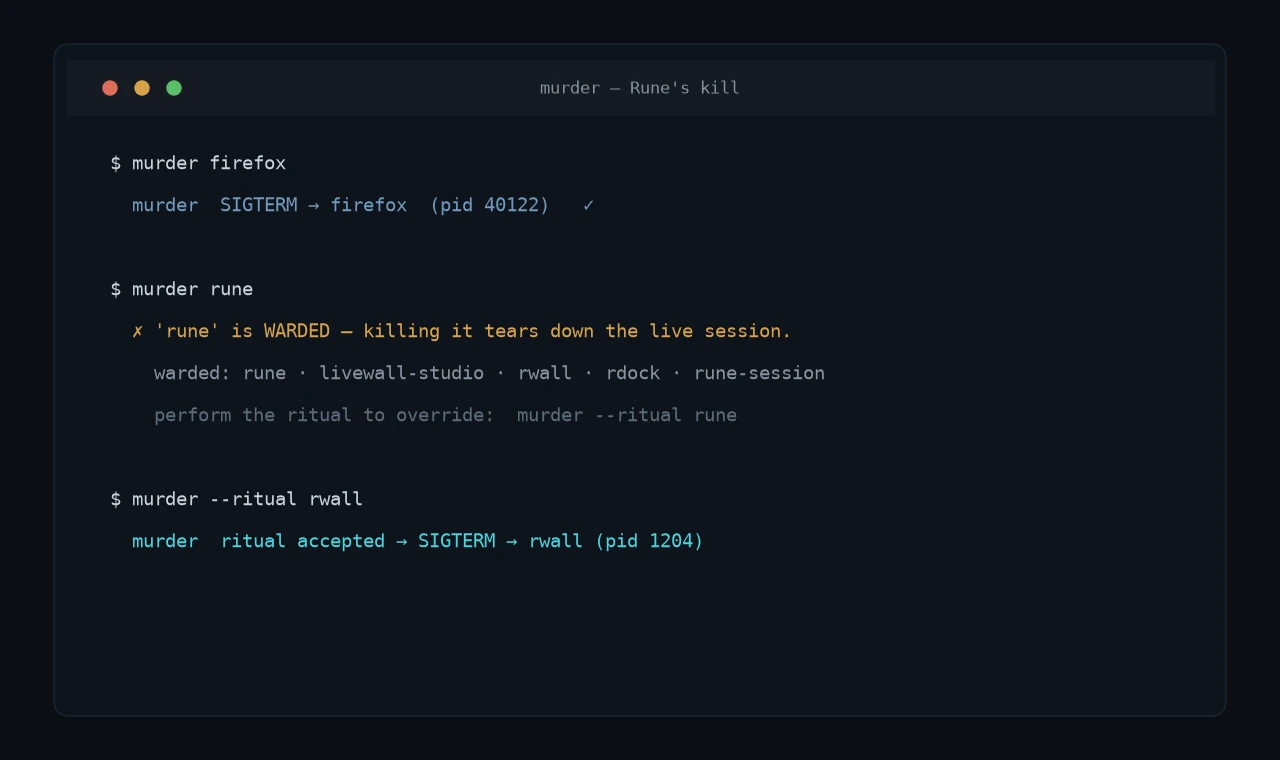
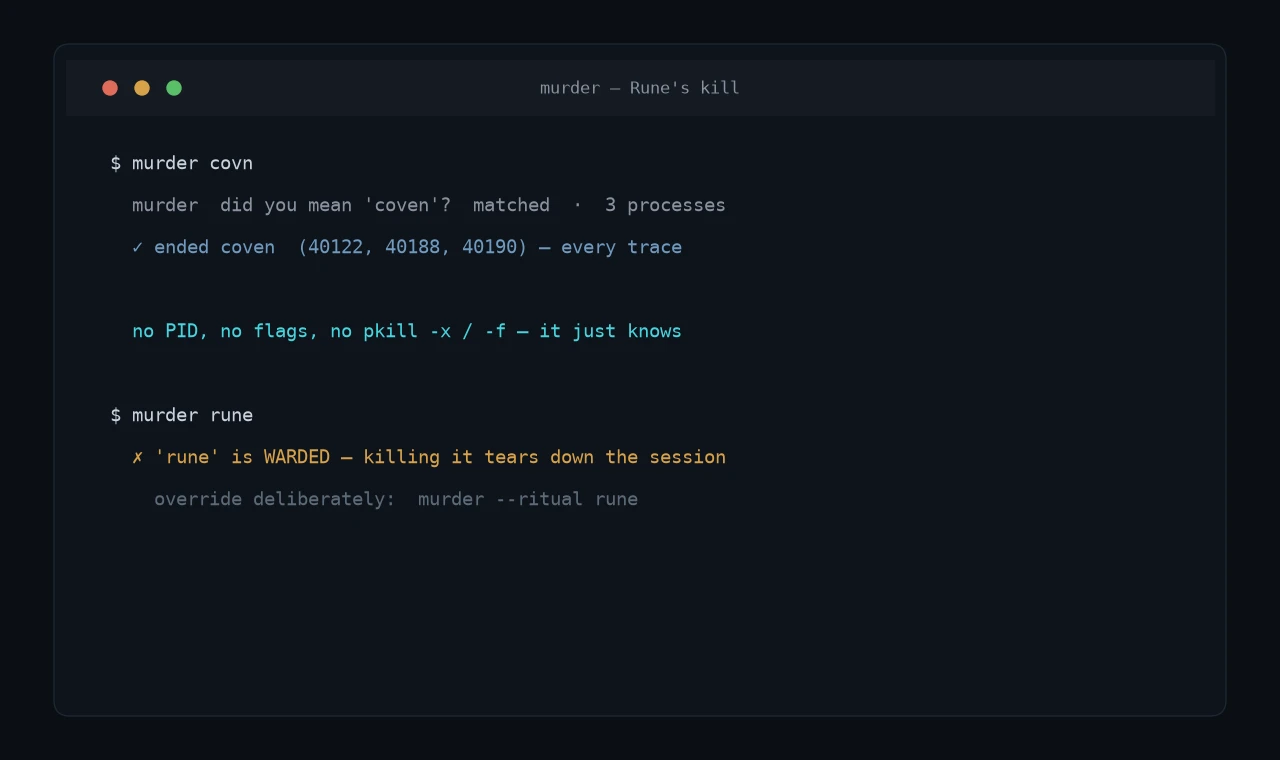
Headline → "I write the parts most people import"; recast murder around fuzzy matching
- New hero headline (leans on the from-scratch/rebuild ethos).
- murder copy + terminal card now lead with its real value: fuzzy name matching
  ("murder covn" → Coven), finds every trace, no PIDs/flags/pkill trivia. Warding
  is the safety net, not the headline feature.

diff --git a/script.js b/script.js
@@ -283,18 +283,18 @@ const projectsData = [
     {
         section: 'systems', code: 'OS-07',
         title: 'murder',
-        short: 'A safer kill that refuses to slay session-critical processes unless you perform the --ritual.',
+        short: 'Kill anything by fuzzy name — "murder covn" knows you mean Coven, finds every trace, and ends it. No PIDs, no flags, no pkill trivia.',
         image: 'images/murder/murder.webp',
         tags: ['Rust', 'CLI', 'Linux', 'RuneOS'],
-        description: 'murder is Rune\'s kill: it signals processes by PID or exact name (pkill -x style), but wards the handful of processes that would tear down the live desktop session — the compositor, the wallpaper engine, the dock — and refuses to touch them unless you pass --ritual. It exists because "pkill -x rune" is an instant sign-out and "pkill -f livewall-studio" is a black screen; murder makes the safe thing the default and the dangerous thing deliberate.',
+        description: 'murder is Rune\'s kill, built around one idea: you should not have to remember pkill -x versus pkill -f, hunt down a PID, or even spell the name right. You just say "murder covn" and it knows you meant Coven — it fuzzy-matches the process, finds every trace of it (all the matching processes, not just one), and ends them. No flags to memorize, no variants, no PID lookup. As a safety net it also wards the handful of processes that would tear down your live session — the compositor, the wallpaper engine, the dock — so a fat-fingered kill can\'t accidentally sign you out; you override with --ritual when you actually mean it.',
         features: [
-            'Kill by PID or exact comm name (pkill -x style)',
-            'Wards session-critical processes (compositor, wallpaper, dock)',
-            'Refuses to kill warded processes without --ritual',
-            'Respects an explicitly named signal — never escalates',
-            'Small, fast Rust binary'
+            'Fuzzy name matching — "murder covn" resolves to Coven, typo and all',
+            'Finds and ends every trace of a process, not a single PID',
+            'No PIDs, no flags, no remembering pkill -x / -f variants',
+            'Wards session-critical processes (compositor, wallpaper, dock) unless --ritual',
+            'One small, fast Rust binary'
         ],
-        tech: 'Rust · CLI · Linux signals',
+        tech: 'Rust · CLI · Linux · fuzzy process matching',
         github: 'https://github.com/camdenconradsms/livewall-studio'
     },
 

diff --git a/index.html b/index.html
@@ -67,7 +67,7 @@
             <span class="mono">TROUTMAN,&nbsp;NC</span>
         </div>
         <h1 class="hero-title">
-            Flight software for<br>hard problems, <span class="accent">solved right</span>.
+            I write the parts<br>most people <span class="accent">import</span>.
         </h1>
         <p class="hero-lede">
             I build deterministic, low-level systems in Rust, C, and C++ — trajectory
